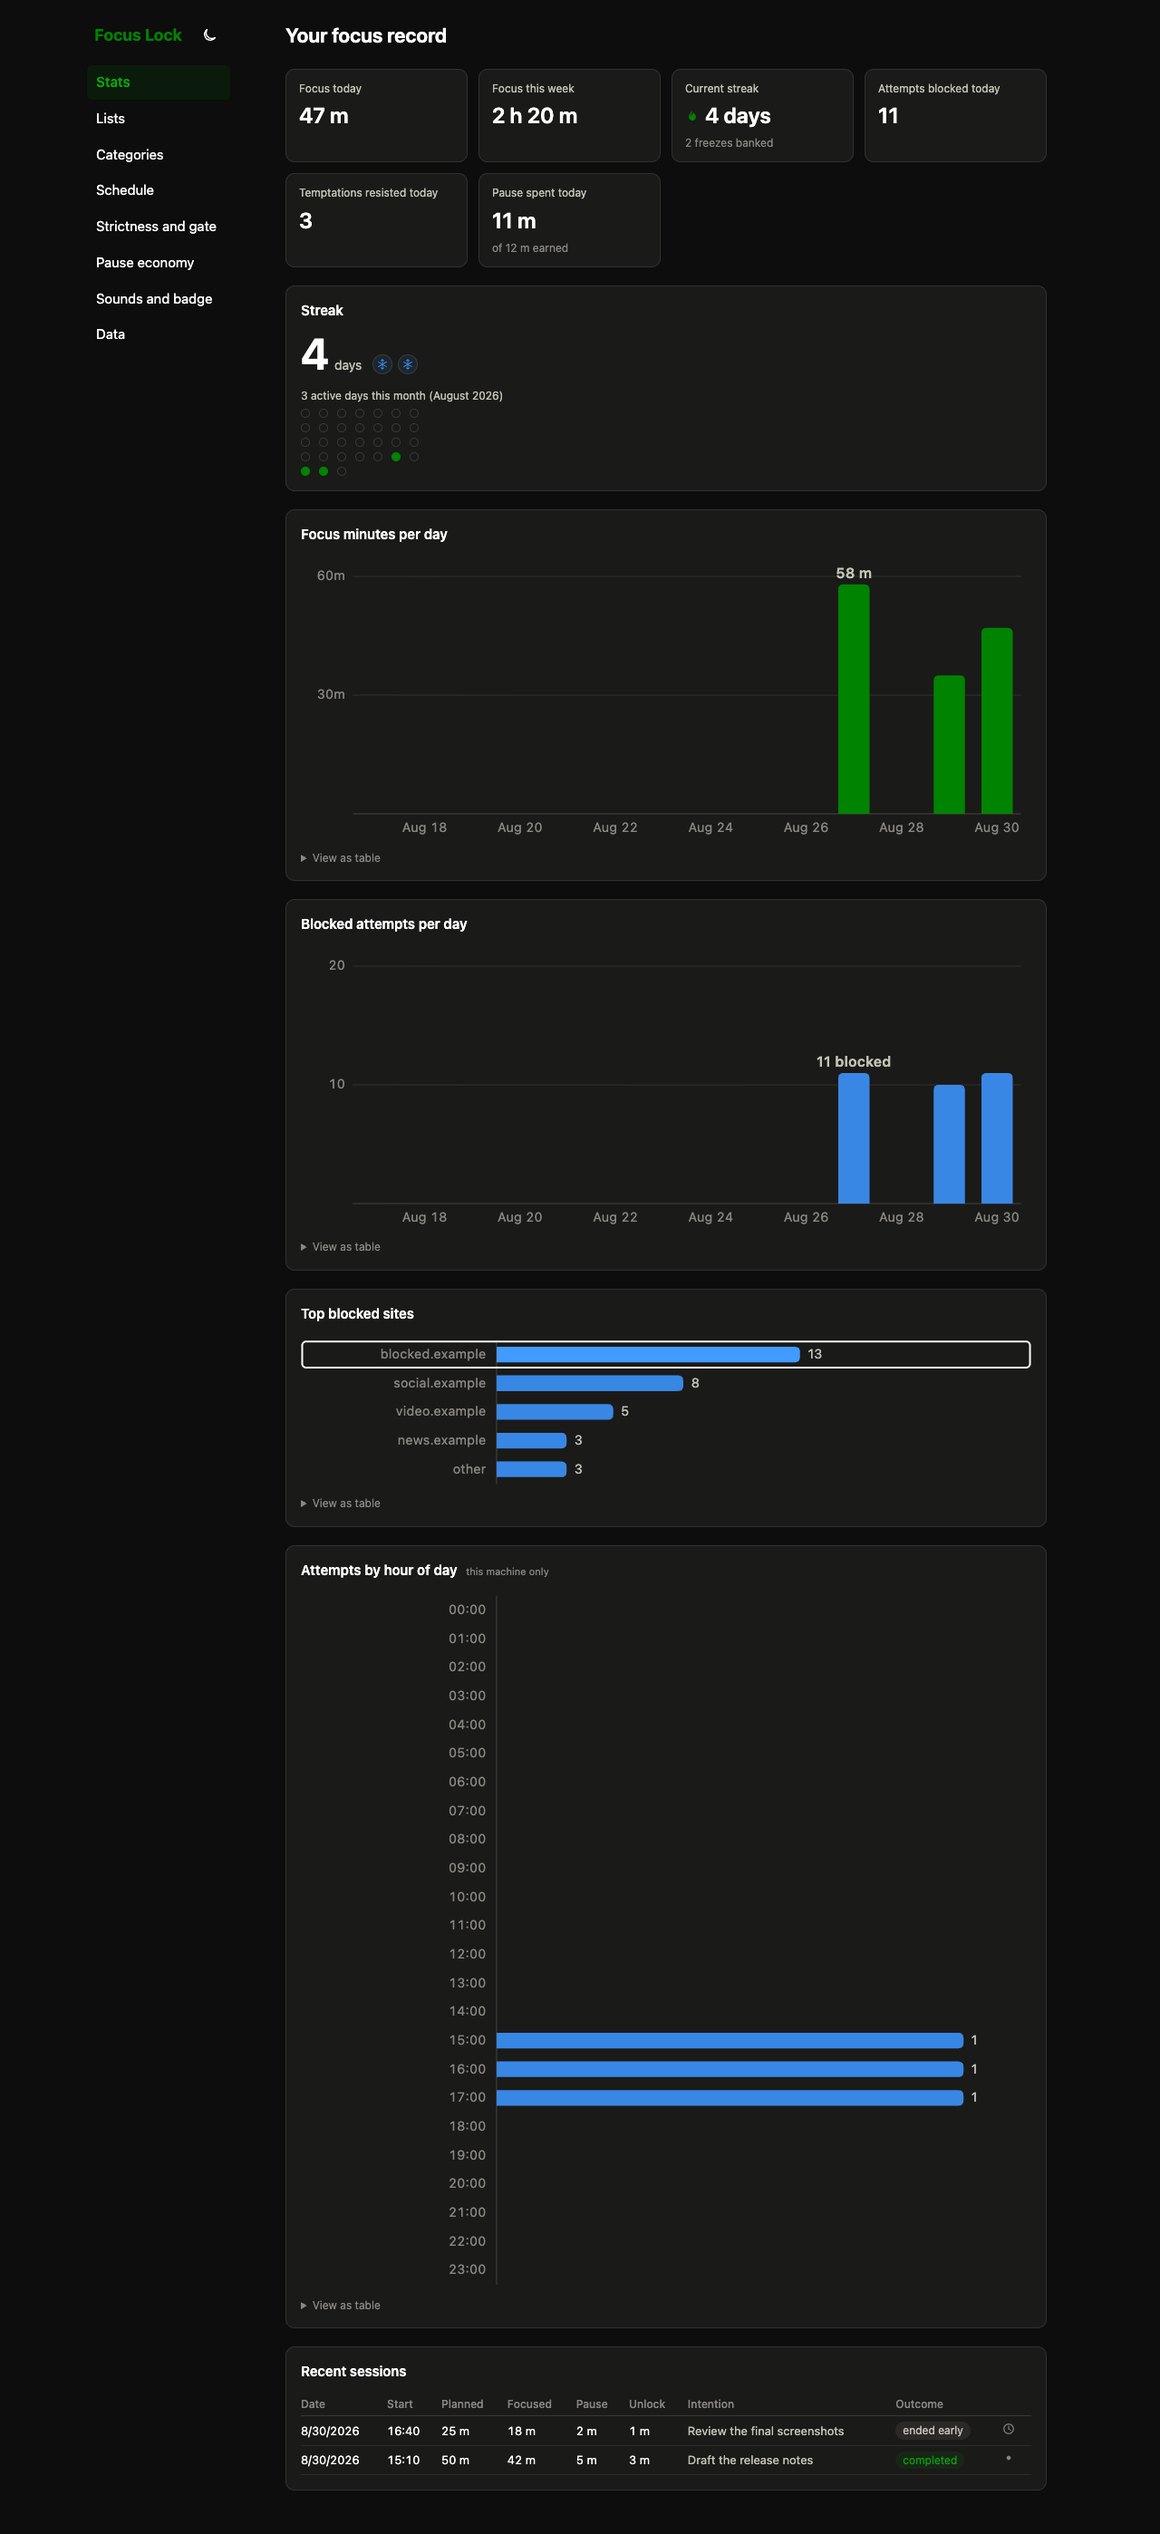
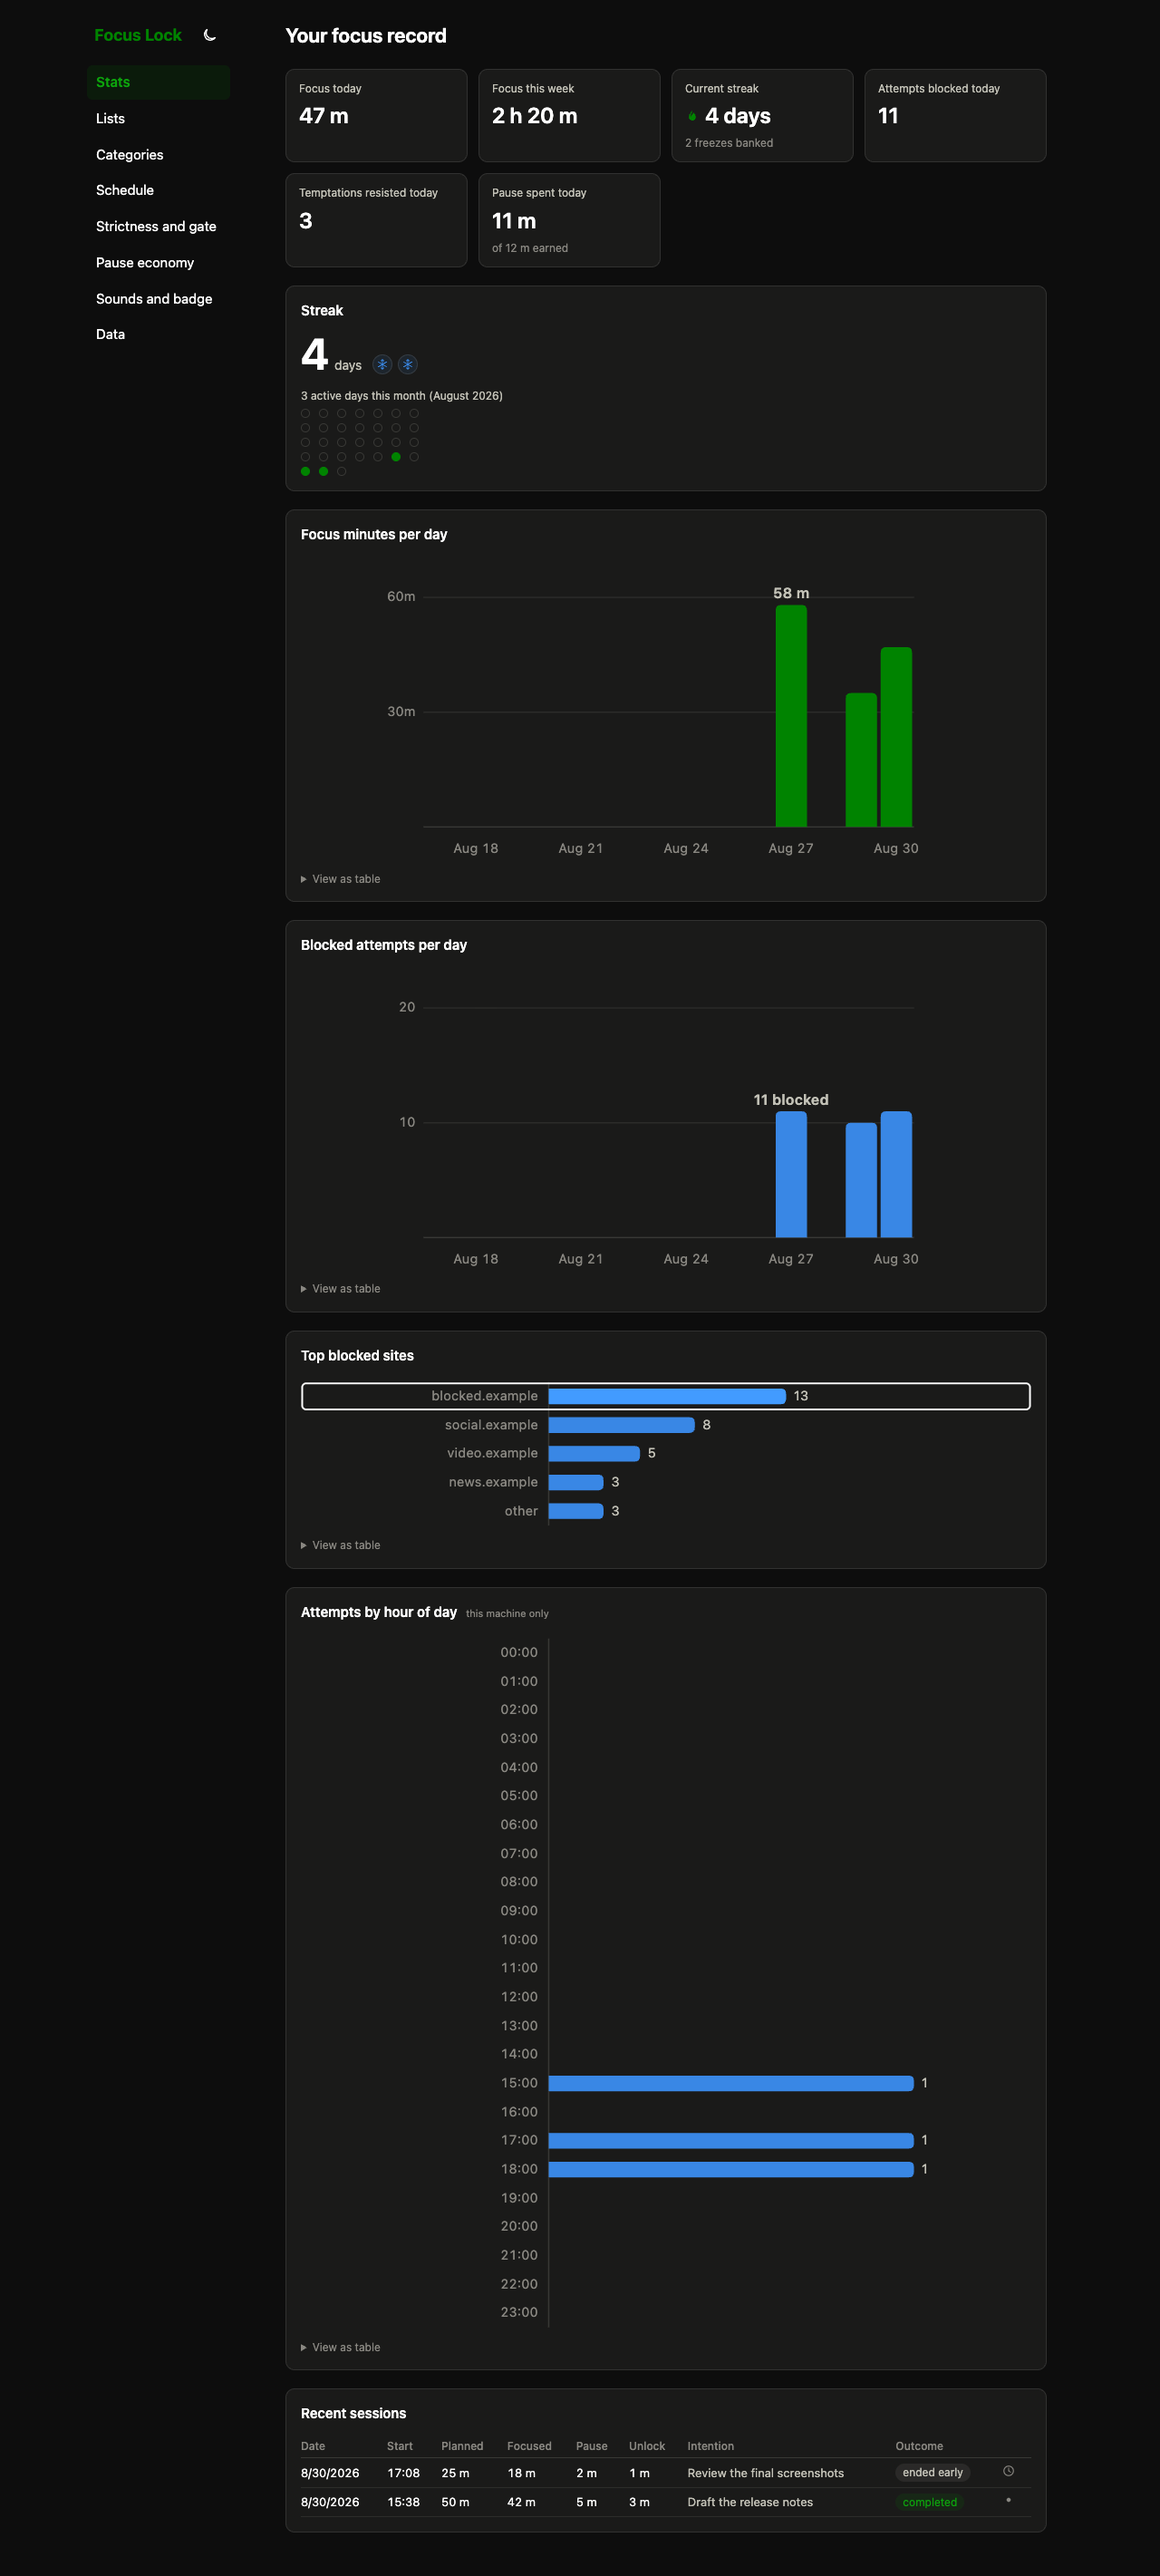
docs: refresh final QA evidence

diff --git a/docs/qa-checklist.md b/docs/qa-checklist.md
@@ -1,6 +1,6 @@
 # Focus Lock QA checklist
 
-Last updated: 2026-08-30. Automated browser evidence targets exact source commit `940ce16fd49fd3bd70f877325ceb8e7127fadcd1`. The run started from a clean `master` worktree and ended on the same commit. It used isolated headless Chrome-for-Testing 151.0.7922.34 profiles and did not touch the user's Chrome.
+Last updated: 2026-08-30. Automated browser evidence targets exact source commit `8de7043e7f2ad6bea5bc6b2cdd0f1fd9a86a8cc6`. The run started from a clean `master` worktree and ended on the same commit. It used isolated headless Chrome-for-Testing 151.0.7922.34 profiles and did not touch the user's Chrome.
 
 ## Exact automated gates
 
@@ -39,6 +39,7 @@ Last updated: 2026-08-30. Automated browser evidence targets exact source commit
 - [x] Component captures cover rings, budget meters, actions, schedule day pills, hard-session rejection, Options controls, Stats pause and unlock columns, and chart focus states.
 - [x] Hover and keyboard focus artifacts cover the popup cog and theme control, both settings menus, all four category bulk actions, typed and untyped gate confirmation, overlay actions, and Stats chart controls in all four theme and media cases.
 - [x] Text rendering, spacing, responsive layout, full-page captures, component captures, and all 38 contact sheets were inspected. No Critical or Important visual defect remained.
+- [x] Stats chart labels remain at least 9 rendered px across 375 through 1280 px. Boundary tests cover all container-query transitions. SVG labels remain inside their view boxes without date, tick, bar, domain, or value collisions, including first-bin maxima, long domains, and seven-digit values.
 - [x] The report records zero viewport overflow or unrelated horizontal scrollers. The wide Recent sessions table remains contained in its intentional in-viewport `.table-scroll` region at 375 px and 768 px.
 
 ## Diagnostics
@@ -48,7 +49,7 @@ Last updated: 2026-08-30. Automated browser evidence targets exact source commit
 - [x] Worker errors: 0.
 - [x] Request failures: 0.
 - [x] Blocked requests: 0.
-- [x] Six shutdown-only worker messages were excluded from worker errors and classified as `intentional-browser-shutdown`. Every message had the exact text `focus-lock background error Error: The browser is shutting down.`
+- [x] Three shutdown-only worker messages were excluded from worker errors and classified as `intentional-browser-shutdown`. Every message had the exact text `focus-lock background error Error: The browser is shutting down.`
 
 ## Manual-only checks
 
@@ -60,11 +61,11 @@ Last updated: 2026-08-30. Automated browser evidence targets exact source commit
 
 ## QA artifacts
 
-The exact evidence directory is `.playwright-mcp/qa-final/master-940ce16f-exact-1788106159542/`.
+The exact evidence directory is `.playwright-mcp/qa-final/master-8de7043e-exact/`.
 
-- Report: `.playwright-mcp/qa-final/master-940ce16f-exact-1788106159542/qa-report.json`
-- Shutdown messages: `.playwright-mcp/qa-final/master-940ce16f-exact-1788106159542/shutdown-worker-messages.json`
-- Contact sheets: `.playwright-mcp/qa-final/master-940ce16f-exact-1788106159542/contact-*.png`
+- Report: `.playwright-mcp/qa-final/master-8de7043e-exact/qa-report.json`
+- Shutdown messages: `.playwright-mcp/qa-final/master-8de7043e-exact/shutdown-worker-messages.json`
+- Contact sheets: `.playwright-mcp/qa-final/master-8de7043e-exact/contact-*.png`
 - Pinned-toolbar capture: `.playwright-mcp/qa-final/toolbar-break-0ed0c275-1788052452918/toolbar-pinned-break-crop.png`
 - Fresh-toolbar prepared profile: `.playwright-mcp/qa-final/toolbar-break-9f453d64-1788070444526/`
 
